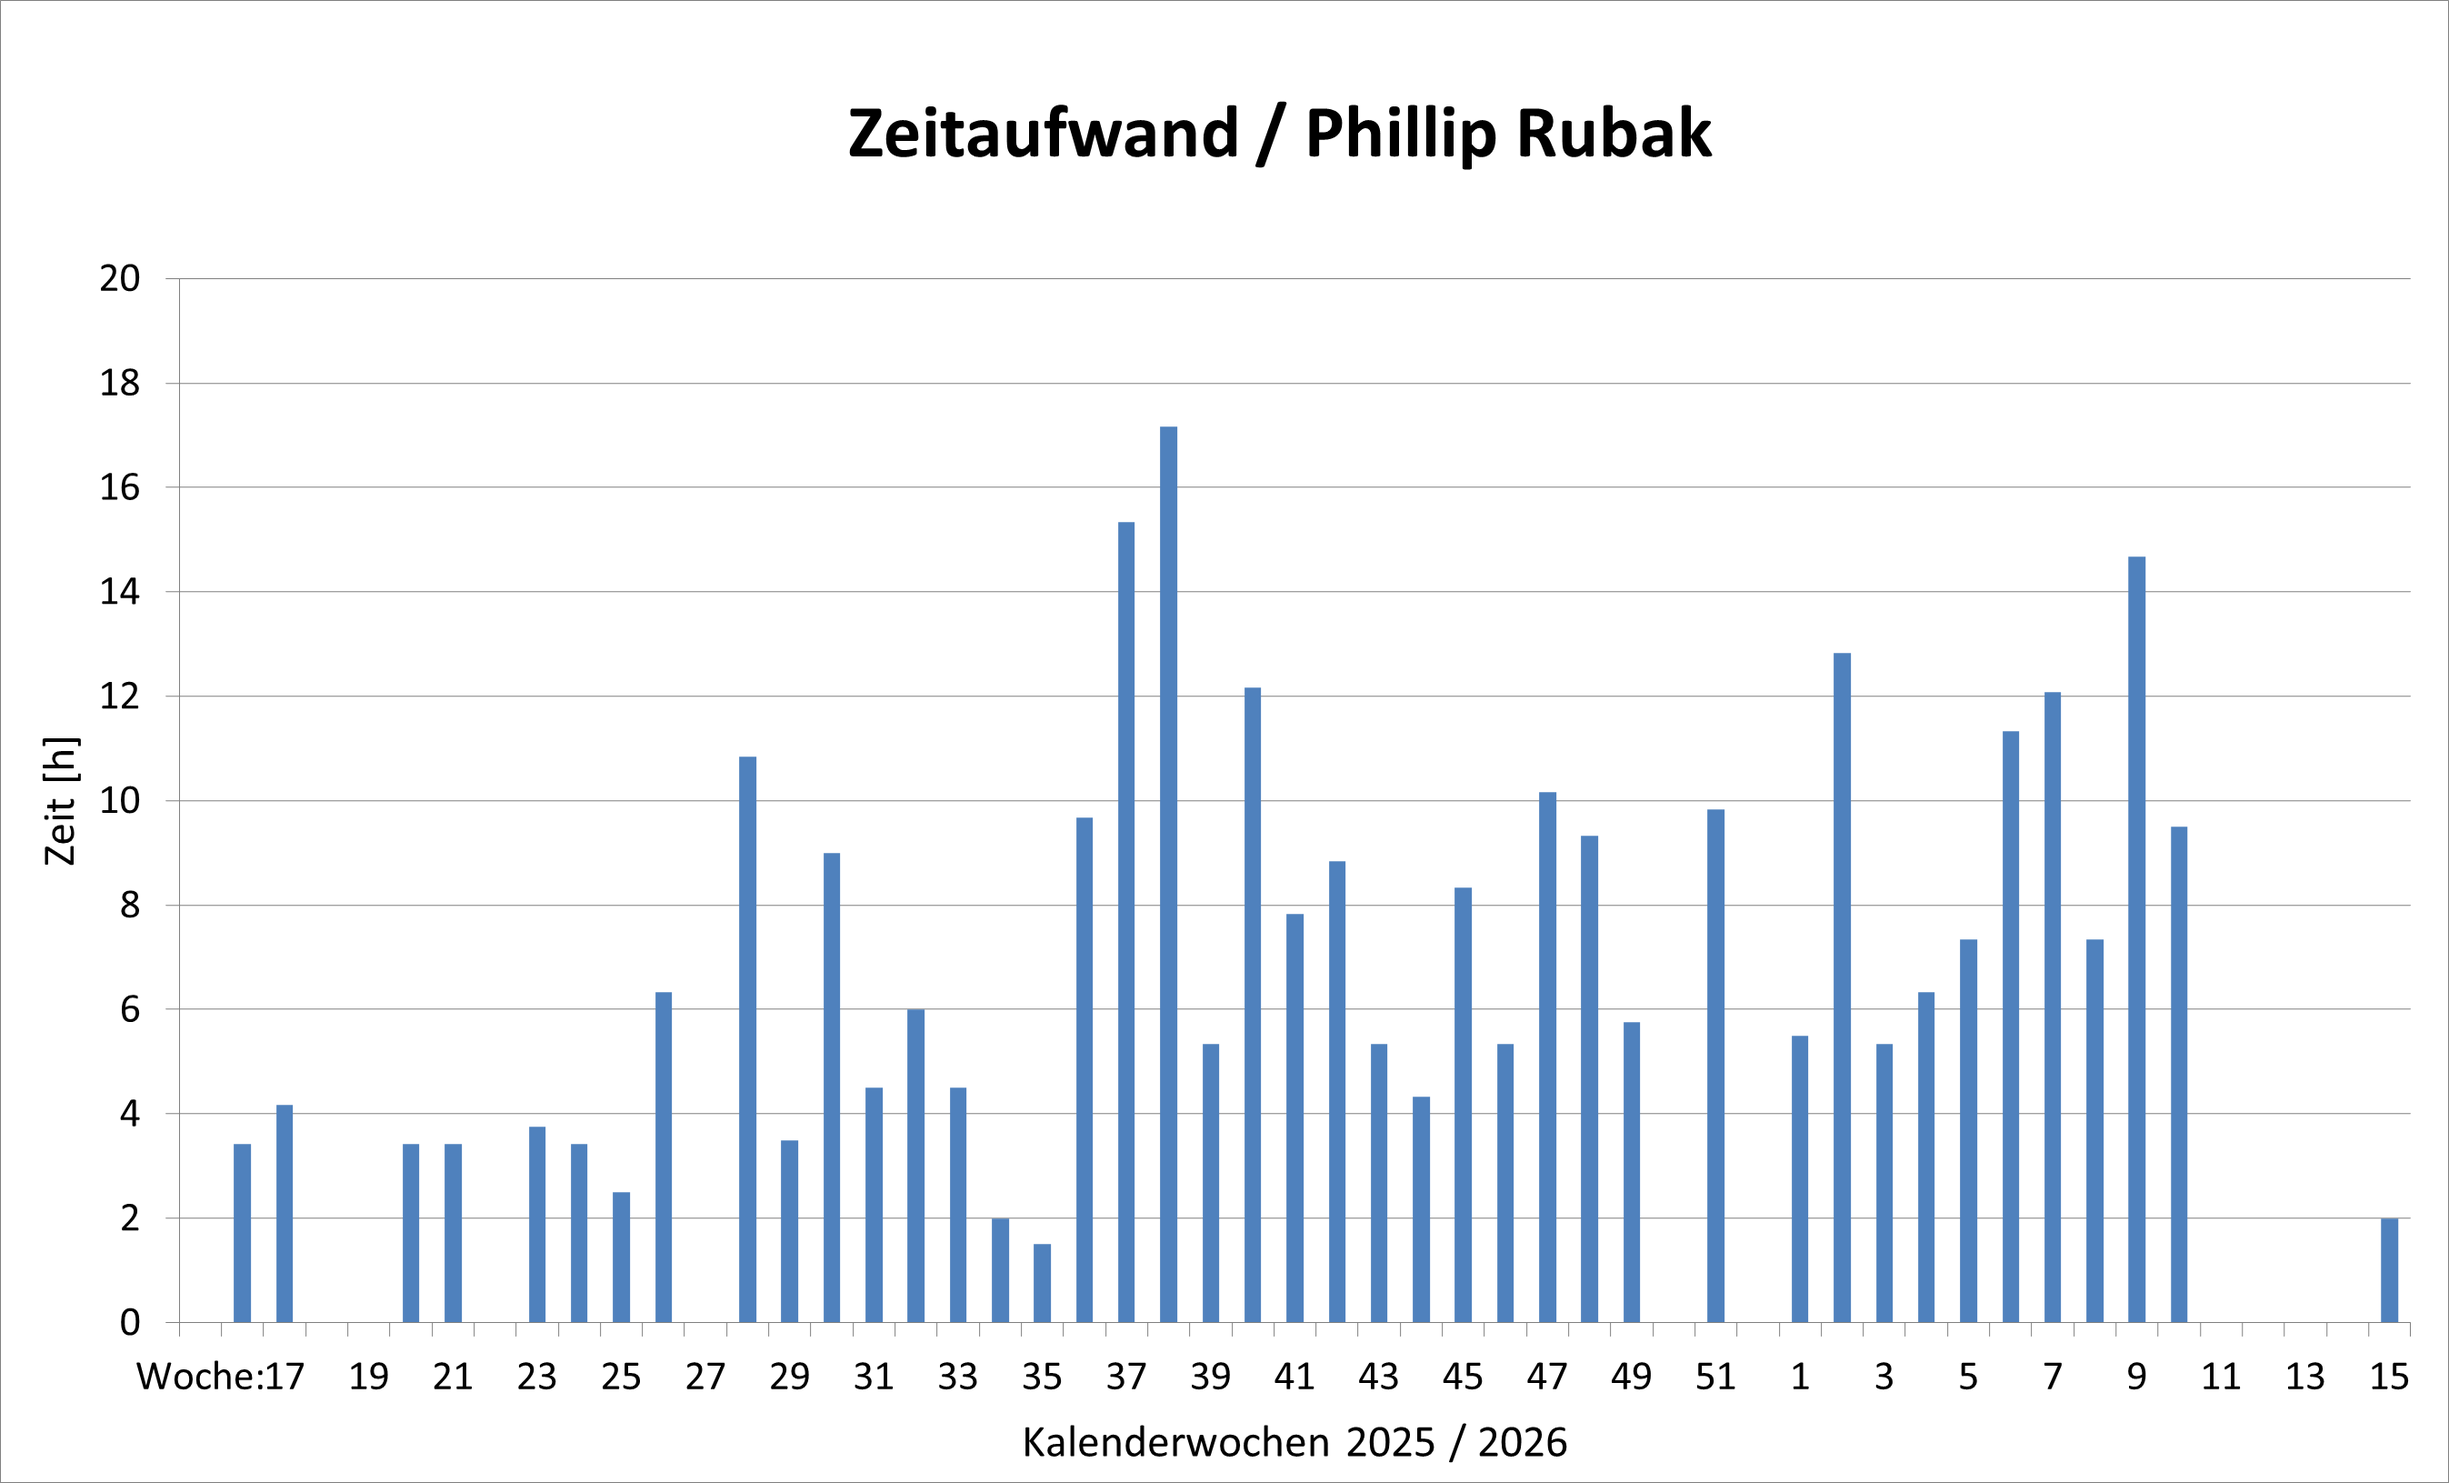
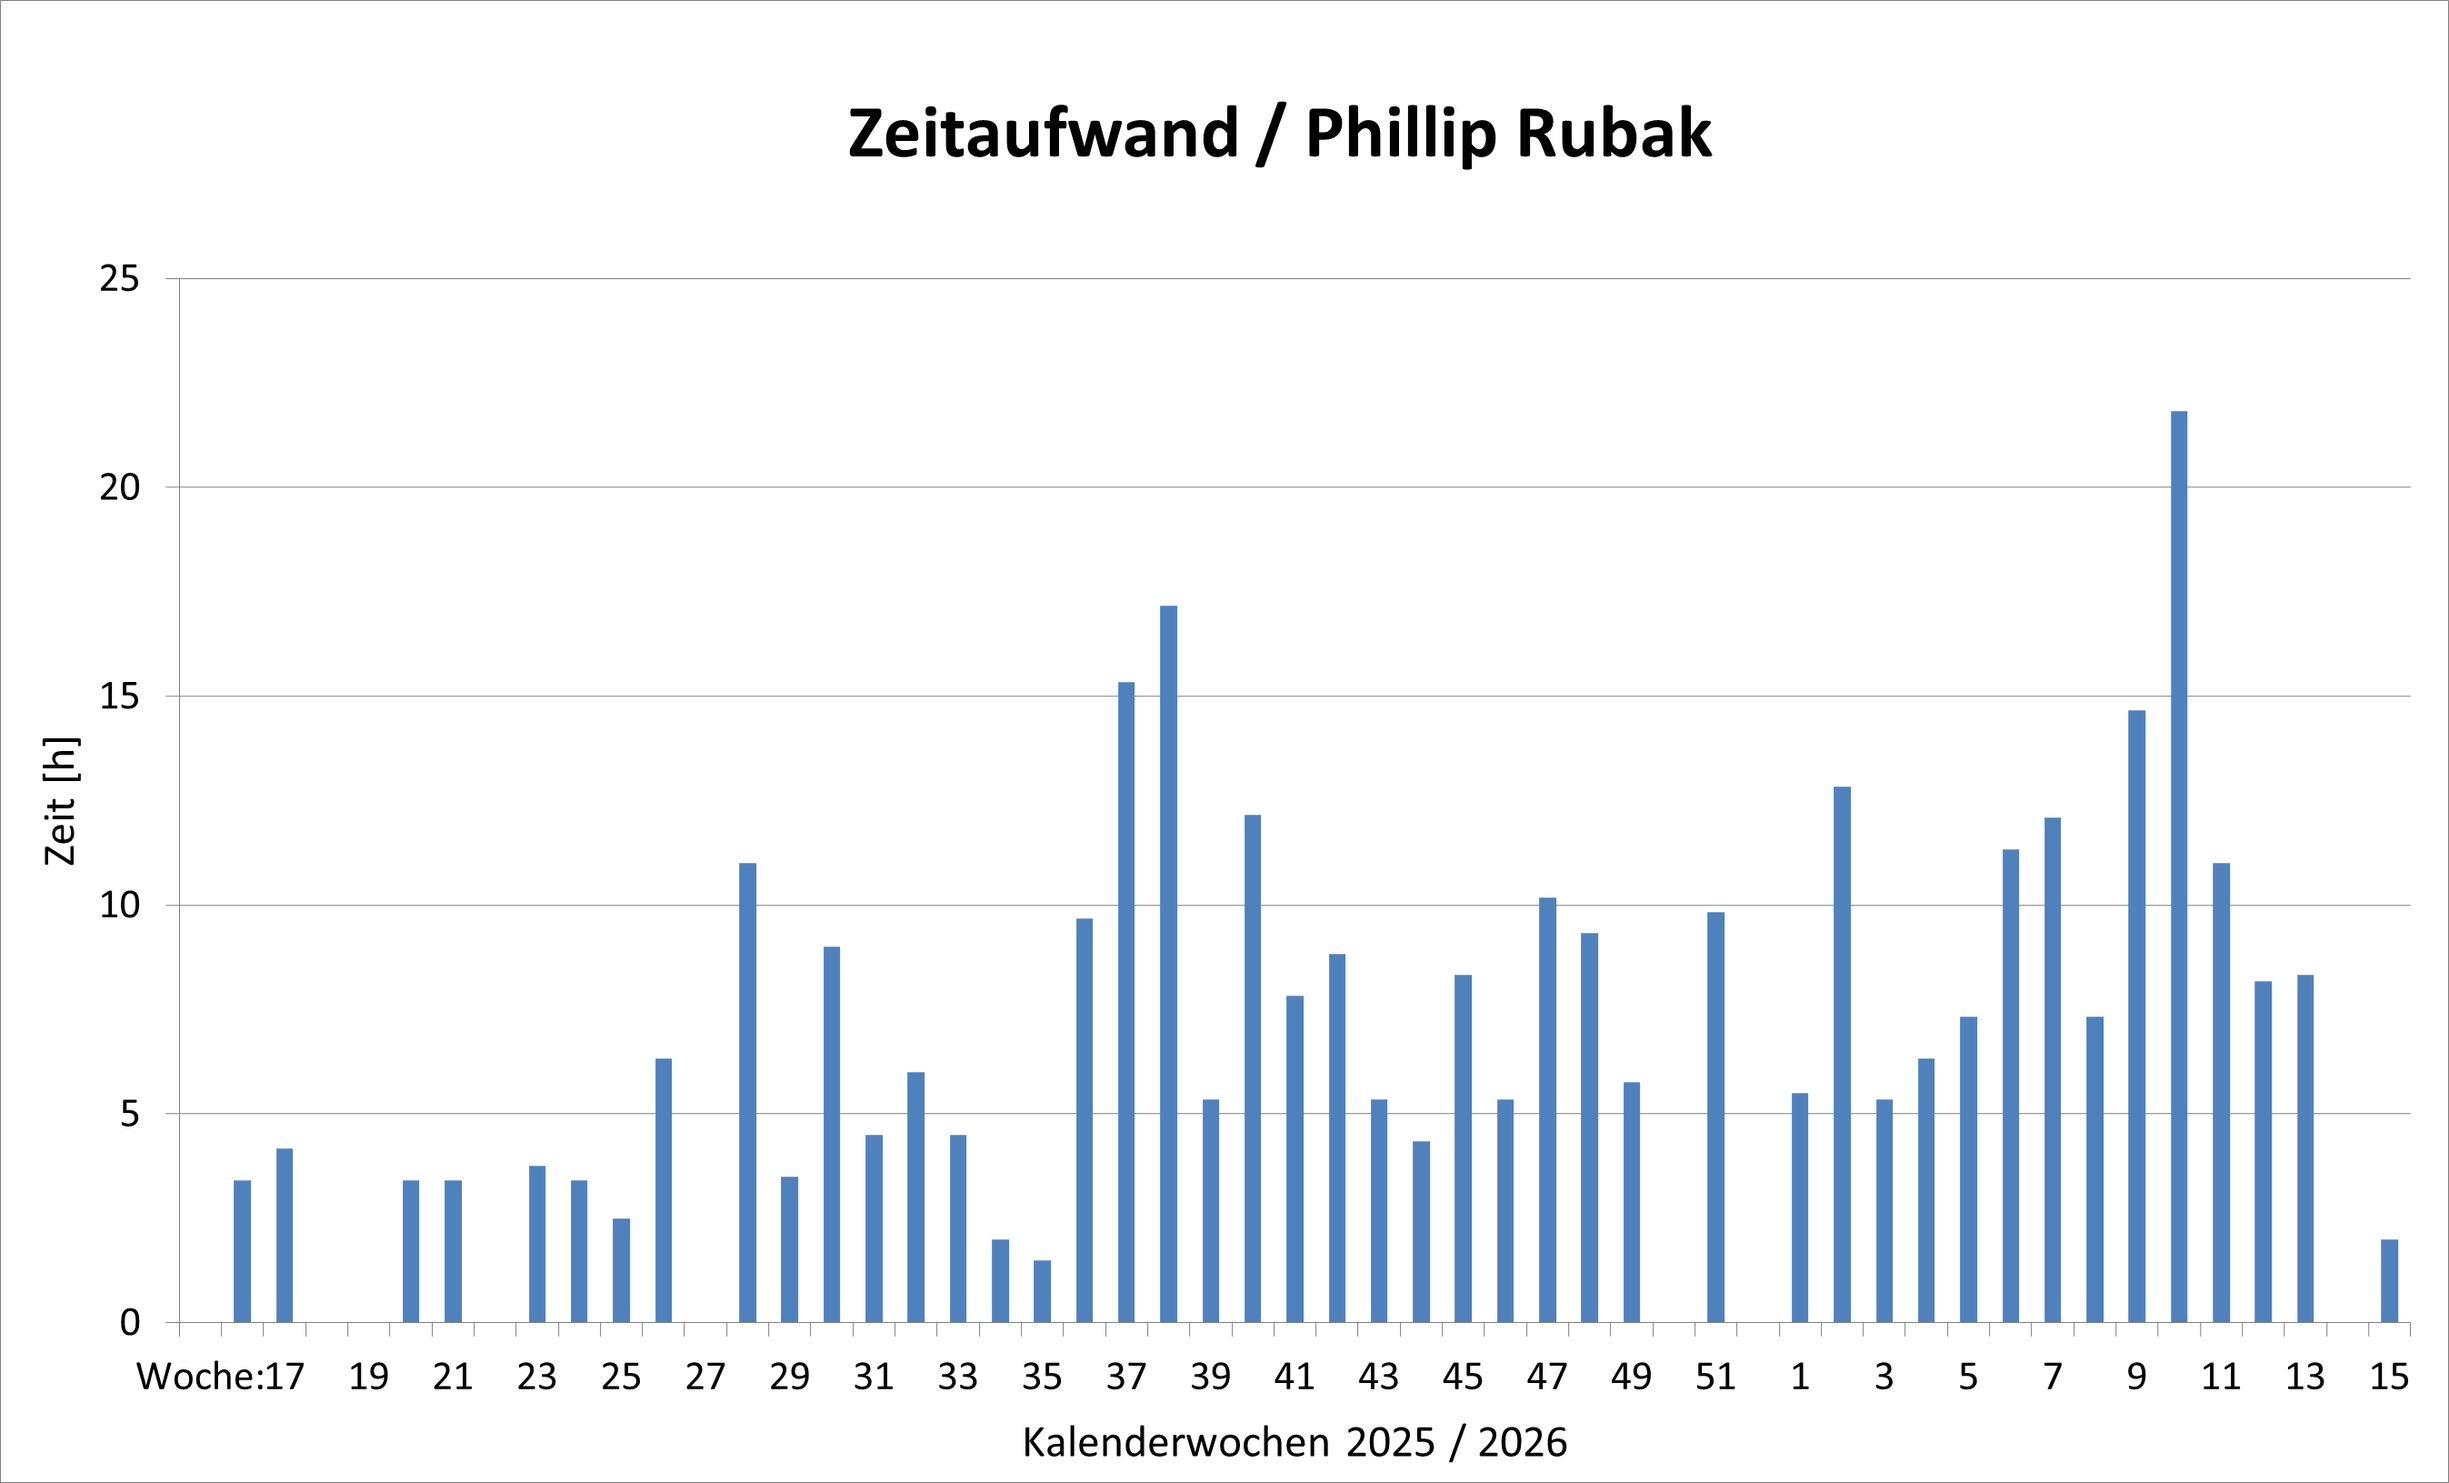
updated time

diff --git a/Docu/definitions.tex b/Docu/definitions.tex
@@ -22,7 +22,7 @@
 \newcommand{\schuljahr}{2025/26}
 \newcommand{\daTitel}{EduShelf}
 \newcommand{\daTitelKurz}{EduShelf}
-\newcommand{\datumErklaerung}{07.04.2025}			% Datum für die eidesstattliche Erklärung
+\newcommand{\datumErklaerung}{27.03.2026}			% Datum für die eidesstattliche Erklärung
 \newcommand{\datumAbgabe}{27.03.2026}
 \newcommand{\aktuellesSchuljahr}{2025/26}
 \newcommand{\firma}{"X-Works"}

diff --git a/Docu/backend/zeit.tex b/Docu/backend/zeit.tex
@@ -5,7 +5,7 @@
 	\includegraphics[width=\textwidth]{img/Zeitaufwand_Rubak.png}
     \caption{Backend Zeitaufwand}
 \end{figure}
-Gesamt: 301,25h\\
-Freizeit: 234,44h
+Gesamt: 341,25h\\
+Freizeit: 267,14
 ~ \\
 \newpage
